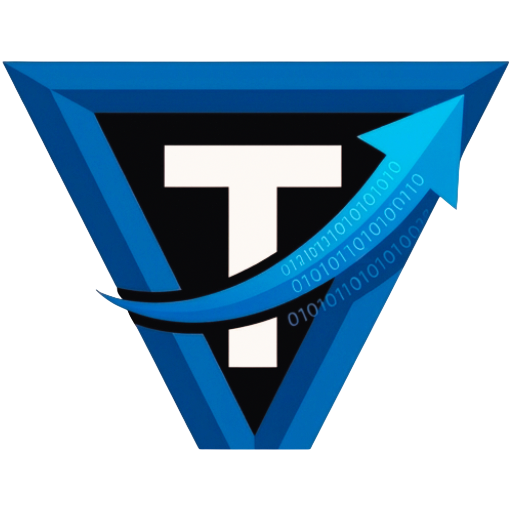
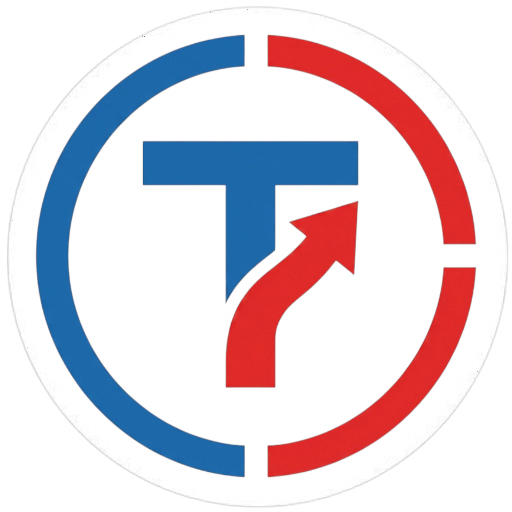
chore: update assets, analytics, and site configuration
- update analytics IDs for Google Analytics and Microsoft Clarity
- replace absolute URLs with relative paths for icons and meta images
- update favicon and touch icon assets
- add og_image.jpg and site.webmanifest
- refactor style and html formatting for consistency

diff --git a/index.html b/index.html
@@ -80,10 +80,7 @@
       property="og:description"
       content="Eksportuj dane transakcyjne z kont T212 CFD oraz Crypto do pliku JSON w 30 sekund. Bezpiecznie i za darmo."
     />
-    <meta
-      property="og:image"
-      content="https://darkspine433.github.io/T212-CFD-DATA/og-image.png"
-    />
+    <meta property="og:image" content="og-image.jpg" />
 
     <!-- Twitter -->
     <meta property="twitter:card" content="summary_large_image" />
@@ -96,10 +93,7 @@
       property="twitter:description"
       content="Eksportuj dane transakcyjne z kont T212 CFD oraz Crypto do pliku JSON w 30 sekund. Bezpiecznie i za darmo."
     />
-    <meta
-      property="twitter:image"
-      content="https://darkspine433.github.io/T212-CFD-DATA/og-image.png"
-    />
+    <meta property="twitter:image" content="og-image.jpg" />
 
     <meta
       name="google-site-verification"
@@ -109,30 +103,33 @@
     <link
       rel="apple-touch-icon"
       sizes="180x180"
-      href="https://darkspine433.github.io/T212-CFD-DATA/icons/apple-touch-icon.png"
+      href="icons/apple-touch-icon.png"
     />
     <link
       rel="icon"
       type="image/png"
       sizes="192x192"
-      href="https://darkspine433.github.io/T212-CFD-DATA/icons/android-chrome-192x192.png"
+      href="icons/android-chrome-192x192.png"
+    />
+    <link
+      rel="icon"
+      type="image/png"
+      sizes="512x512"
+      href="icons/android-chrome-512x512.png"
     />
     <link
       rel="icon"
       type="image/png"
       sizes="32x32"
-      href="https://darkspine433.github.io/T212-CFD-DATA/icons/favicon-32x32.png"
+      href="icons/favicon-32x32.png"
     />
     <link
       rel="icon"
       type="image/png"
       sizes="16x16"
-      href="https://darkspine433.github.io/T212-CFD-DATA/icons/favicon-16x16.png"
+      href="icons/favicon-16x16.png"
     />
-    <link
-      rel="shortcut icon"
-      href="https://darkspine433.github.io/T212-CFD-DATA/icons/favicon.ico"
-    />
+    <link rel="shortcut icon" href="icons/favicon.ico" />
     <meta name="apple-mobile-web-app-capable" content="yes" />
     <meta
       name="apple-mobile-web-app-status-bar-style"

diff --git a/privacy-policy.html b/privacy-policy.html
@@ -32,10 +32,36 @@
       href="https://darkspine433.github.io/T212-CFD-DATA/privacy-policy.html?lang=en"
     />
 
-    <link rel="apple-touch-icon" sizes="180x180" href="icons/apple-touch-icon.png">
-    <link rel="icon" type="image/png" sizes="32x32" href="icons/favicon-32x32.png">
-    <link rel="icon" type="image/png" sizes="16x16" href="icons/favicon-16x16.png">
-    <link rel="shortcut icon" href="icons/favicon.ico">
+    <link
+      rel="apple-touch-icon"
+      sizes="180x180"
+      href="icons/apple-touch-icon.png"
+    />
+    <link
+      rel="icon"
+      type="image/png"
+      sizes="192x192"
+      href="icons/android-chrome-192x192.png"
+    />
+    <link
+      rel="icon"
+      type="image/png"
+      sizes="512x512"
+      href="icons/android-chrome-512x512.png"
+    />
+    <link
+      rel="icon"
+      type="image/png"
+      sizes="32x32"
+      href="icons/favicon-32x32.png"
+    />
+    <link
+      rel="icon"
+      type="image/png"
+      sizes="16x16"
+      href="icons/favicon-16x16.png"
+    />
+    <link rel="shortcut icon" href="icons/favicon.ico" />
     <link rel="stylesheet" href="./style.css" />
   </head>
   <body>
@@ -54,7 +80,12 @@
     >
       <header
         class="p-4 transition-all"
-        style="margin-left: auto; margin-right: auto; padding-bottom: 20px; text-align: center"
+        style="
+          margin-left: auto;
+          margin-right: auto;
+          padding-bottom: 20px;
+          text-align: center;
+        "
       >
         <div style="margin-bottom: 20px">
           <img

diff --git a/js/utils/analytics.js b/js/utils/analytics.js
@@ -1,7 +1,7 @@
 // Google Analytics
 const gtagScript = document.createElement("script");
 gtagScript.async = true;
-gtagScript.src = "https://www.googletagmanager.com/gtag/js?id=G-4G118Q2EH2";
+gtagScript.src = "https://www.googletagmanager.com/gtag/js?id=G-8BEV08G411";
 document.head.appendChild(gtagScript);
 
 window.dataLayer = window.dataLayer || [];
@@ -10,7 +10,7 @@ function gtag() {
 }
 gtag("js", new Date());
 
-gtag("config", "G-4G118Q2EH2");
+gtag("config", "G-8BEV08G411");
 
 // Microsoft Clarity
 (function (c, l, a, r, i, t, y) {
@@ -24,4 +24,4 @@ gtag("config", "G-4G118Q2EH2");
   t.src = "https://www.clarity.ms/tag/" + i;
   y = l.getElementsByTagName(r)[0];
   y.parentNode.insertBefore(t, y);
-})(window, document, "clarity", "script", "w8jntdkg7x");
+})(window, document, "clarity", "script", "wk8ijauiyj");

diff --git a/style.css b/style.css
@@ -35,7 +35,7 @@ body {
   align-items: center;
   min-height: 100vh;
   background-position: center bottom;
-  padding-bottom: 280px;
+  padding-bottom: 300px;
 }
 @media (max-width: 600px) {
   body {
@@ -410,7 +410,9 @@ kbd {
 .showcase:hover {
   transform: translateY(-5px);
   border-color: rgba(88, 166, 255, 0.4);
-  box-shadow: 0 30px 70px rgba(0, 0, 0, 0.7), 0 0 30px rgba(88, 166, 255, 0.15);
+  box-shadow:
+    0 30px 70px rgba(0, 0, 0, 0.7),
+    0 0 30px rgba(88, 166, 255, 0.15);
 }
 
 @media (max-width: 500px) {
